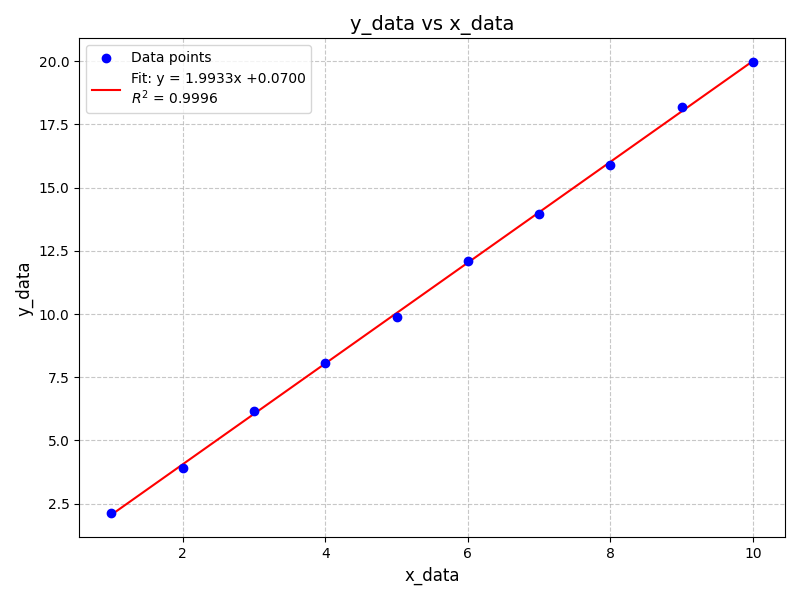
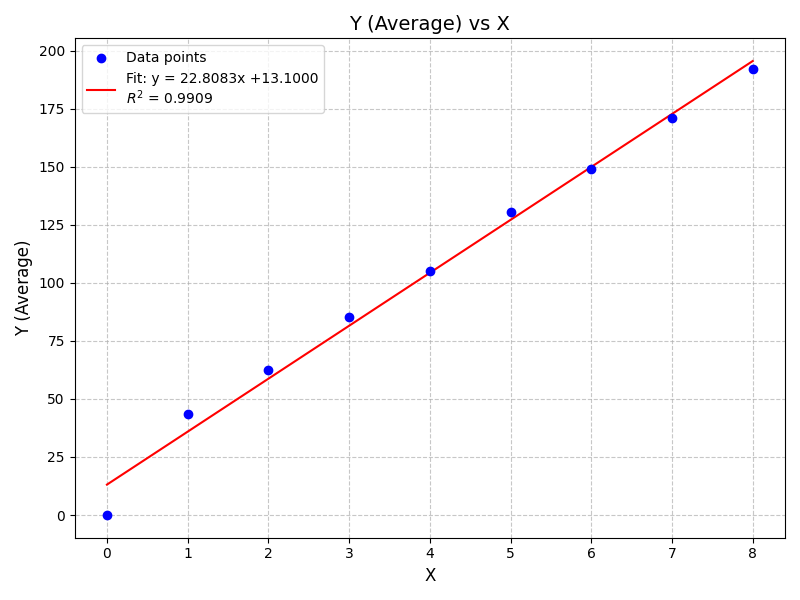
1_grafikon

diff --git a/MECHANIKA/1_feladat.py b/MECHANIKA/1_feladat.py
@@ -1,84 +1,41 @@
-import pandas as pd
-import numpy as np
-import matplotlib.pyplot as plt
-from scipy.stats import linregress
-import argparse
-import sys
 import os
+import numpy as np
+import pandas as pd
+import matplotlib.pyplot as plt
 
-def main():
-    script_dir = os.path.dirname(os.path.abspath(__file__))
-    
-    # Set up basic argument parsing in case we want to pass the CSV filename
-    parser = argparse.ArgumentParser(description='Plot data from a CSV file and fit a line.')
-    parser.add_argument('-f', '--file', type=str, default=os.path.join(script_dir, '1_feladat.csv'), help='Path to the CSV file')
-    args = parser.parse_args()
-    
-    csv_file = args.file
-    
-    # If a specific CSV file isn't provided or doesn't exist, try to find one in the script directory
-    if not os.path.exists(csv_file):
-        csv_files = [f for f in os.listdir(script_dir) if f.endswith('.csv')]
-        if len(csv_files) == 1:
-            csv_file = os.path.join(script_dir, csv_files[0])
-            print(f"Found {csv_files[0]}, using it as data source.")
-        elif len(csv_files) > 1:
-            print(f"Multiple CSV files found. Please specify one using '-f'. Available: {csv_files}")
-            sys.exit(1)
-        else:
-            print("No CSV file found. Please provide a CSV file.")
-            sys.exit(1)
+# Get the absolute path to the directory containing this script
+script_dir = os.path.dirname(os.path.abspath(__file__))
+filename = os.path.join(script_dir, '1_feladat.csv')
 
-    # Read the data from the CSV file
-    try:
-        # Assumes a common format standard with ',' separator. Can be changed if needed.
-        df = pd.read_csv(csv_file)
-        print("Data loaded successfully. Columns found:", list(df.columns))
-    except Exception as e:
-        print(f"Error reading {csv_file}: {e}")
-        sys.exit(1)
-        
-    # Assume the first two columns contain the X and Y data respectively to keep it general
-    if len(df.columns) < 2:
-        print("CSV file must have at least two columns containing data.")
-        sys.exit(1)
-        
-    x_col = df.columns[0]
-    y_col = df.columns[1]
-    
-    # Drop any NaNs
-    df = df.dropna(subset=[x_col, y_col])
-    
-    x = df[x_col].values
-    y = df[y_col].values
-    
-    # Perform a linear regression (line fitting)
-    slope, intercept, r_value, p_value, std_err = linregress(x, y)
-    
-    # Generate the points for the fitted line
-    x_fit = np.linspace(min(x), max(x), 100)
-    y_fit = slope * x_fit + intercept
-    
-    # Create the plot
-    plt.figure(figsize=(8, 6))
-    
-    # Plot the original datapoints
-    plt.scatter(x, y, color='blue', label='Data points', zorder=3)
-    
-    # Plot the fitted line
-    plt.plot(x_fit, y_fit, color='red', label=f'Fit: y = {slope:.4f}x {intercept:+.4f}\n$R^2$ = {r_value**2:.4f}', zorder=2)
-    
-    # Formatting the plot
-    plt.xlabel(x_col, fontsize=12)
-    plt.ylabel(y_col, fontsize=12)
-    plt.title(f'{y_col} vs {x_col}', fontsize=14)
-    plt.grid(True, linestyle='--', alpha=0.7, zorder=1)
-    plt.legend()
-    
-    # Save and show the plot
-    plt.tight_layout()
-    plt.savefig('1_feladat.png')
-    plt.show()
+try:
+    # Read the file with space separator. Using names to handle missing values on the first row
+    df = pd.read_csv(filename, header=None, sep=r'\s+', names=['X', 'Y1', 'Y2'])
+except:
+    print(f"nem talaltam a {filename} fajlt, bocs")
+    exit(1)
 
-if __name__ == "__main__":
-    main()
+# X értékek
+x = df['X'].values
+
+# Átlagoljuk a 2. és 3. oszlopot (NaN értékeket kihagyva)
+y_vals = df[['Y1', 'Y2']].values
+y = np.nanmean(y_vals, axis=1)
+
+# Illesztés
+m, c = np.polyfit(x[1:], y[1:], 1)
+
+plt.rcParams.update({'font.size': 18})
+
+plt.figure(figsize=(10, 6))
+plt.scatter(x, y, marker='o', color='b', label="Mért adatok (átlag)")
+plt.plot(x, c + m*x, linestyle='-', color='r', label=f"Illesztett egyenes: y = {m:.3f}x + {c:.2f}")
+
+plt.title("1. feladat")
+plt.xlabel("Golyók száma")
+plt.ylabel("Szöbkitérés")
+plt.legend()
+plt.tight_layout()
+plt.savefig(os.path.join(script_dir, '1_feladat.png'))
+plt.show()
+
+print(f"A meredekség: {m:.5f}")

diff --git a/MECHANIKA/1_feladat.tex b/MECHANIKA/1_feladat.tex
@@ -52,5 +52,11 @@ $m_{golyó}=4,07 g$
     \label{tab:szogelfordulas}
 \end{table}
 
+\begin{figure}[H]
+    \centering
+    \includegraphics[width=0.8\textwidth]{1_feladat.png}
+    \caption{Szögkitérés mértékének függése a golyók számától}
+    \label{fig:1_feladat_diagram}
+\end{figure}
 
 \end{document}
